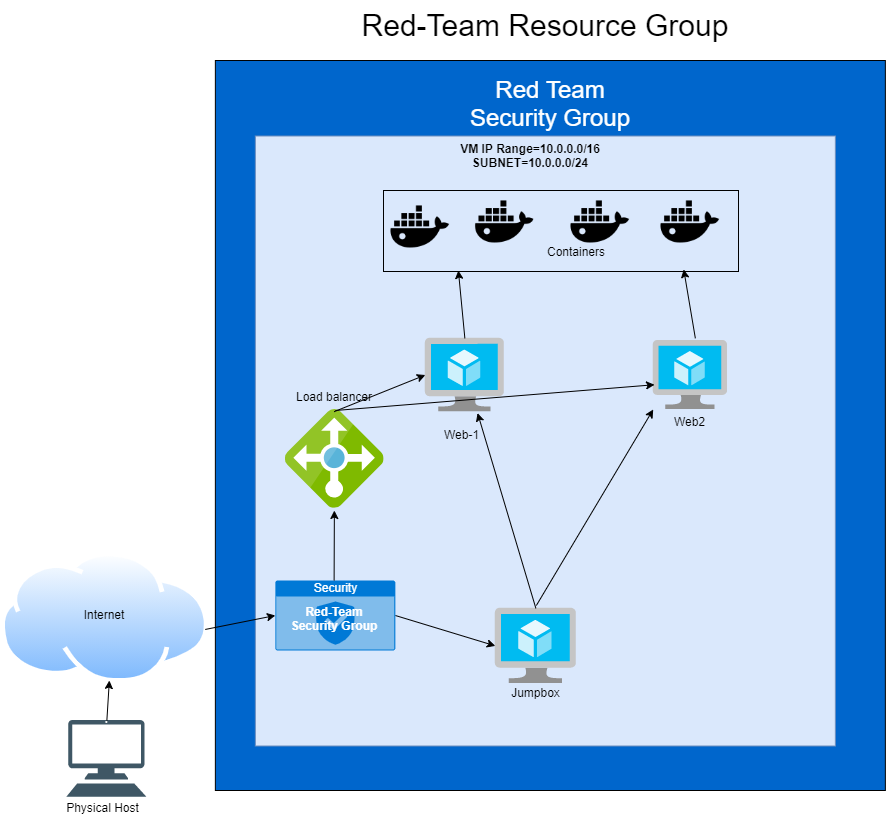
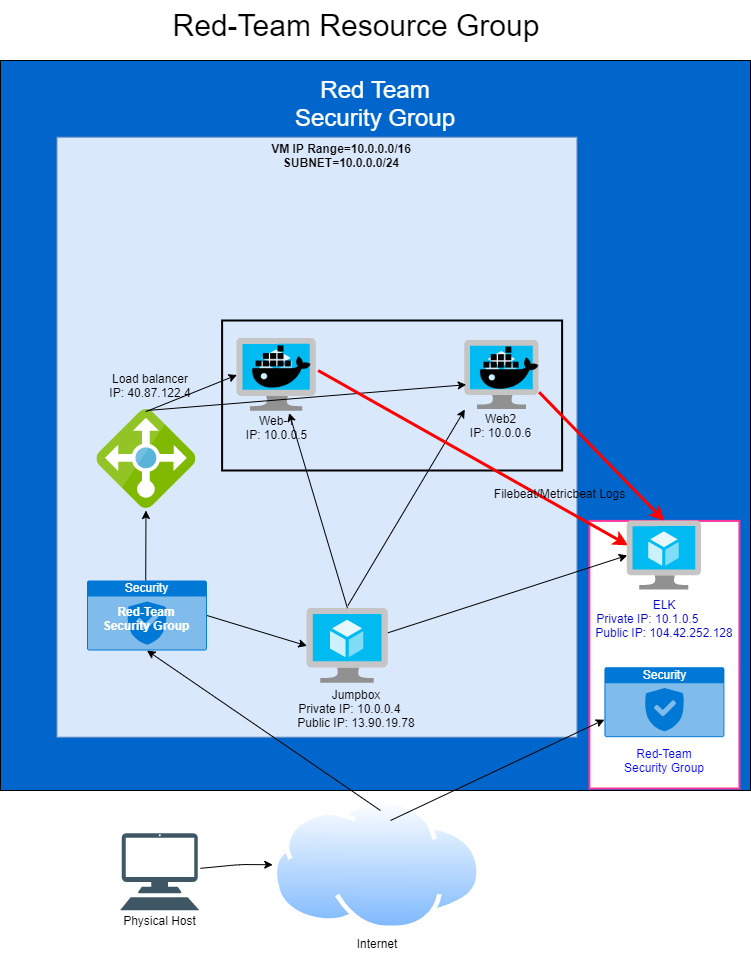
elk

diff --git a/README.md b/README.md
@@ -2,16 +2,15 @@
 
 The files in this repository were used to configure the network depicted below.
 
-![TODO: Update the path with the name of your diagram](C:\Users\debra\Documents\ELK-Stack-Project\images\RedTeam-Network.png)
+![diagram](images\RedTeam-Network.png)
 
 These files have been tested and used to generate a live ELK deployment on Azure. They can be used to either recreate the entire deployment pictured above. Alternatively, select portions of the yaml file may be used to install only certain pieces of it, such as Filebeat.
 
-  - _TODO: Enter the playbook file._
-  (C:\Users\debra\OneDrive\Documents\ELK-Stack-Project\scripts\elk-playbook.yml)
-  (C:\Users\debra\OneDrive\Documents\ELK-Stack-Project\scripts\filebeat-playbook.yml)
-  (C:\Users\debra\OneDrive\Documents\ELK-Stack-Project\scripts\filebeat-config.yml)
-  (C:\Users\debra\OneDrive\Documents\ELK-Stack-Project\scripts\metricbeat-playbook.yml)
-  (C:\Users\debra\OneDrive\Documents\ELK-Stack-Project\scripts\metricbeat-config.yml)
+  [](scripts\elk-playbook.yml)
+  [](scripts\filebeat-playbook.yml)
+  [](scripts\filebeat-config.yml)
+  [](scripts\metricbeat-playbook.yml)
+  [](scripts\metricbeat-config.yml)
   
 This document contains the following details:
 - Description of the Topology
@@ -26,53 +25,87 @@ This document contains the following details:
 
 The main purpose of this network is to expose a load-balanced and monitored instance of DVWA, the D*mn Vulnerable Web Application.
 
-Load balancing ensures that the application will be highly available, in addition to restricting the public to the network.
-- _TODO: What aspect of security do load balancers protect? What is the advantage of a jump box?_ updates only need to be put on that single system and be deployed to the VMs it connects to.
+Load balancing ensures that the application will be highly 
 
-Integrating an ELK server allows users to easily monitor the vulnerable VMs for changes to the _____ and system _____.
-- _TODO: What does Filebeat watch for?_files and data
-- _TODO: What does Metricbeat record?_system metrics
+        available, 
+in addition to restricting 
+
+        the public traffic
+to the network.
+
+What aspect of security do load balancers protect? 
+ 
+        defends an organization against distributed denial-of-service (DDoS) attacks.
+ 
+ 
+What is the advantage of a jump box?_ 
+ 
+        updates only need to be put on that single system and be deployed to the VMs it connects to.
+
+Integrating an ELK server allows users to easily monitor the vulnerable VMs for changes to the 
+
+        files 
+and 
+        
+        system metrics.
+What does Filebeat watch for?
+
+        files and data
+What does Metricbeat record?
+
+        system metrics
 
 The configuration details of each machine may be found below.
 _Note: Use the [Markdown Table Generator](http://www.tablesgenerator.com/markdown_tables) to add/remove values from the table_.
 
 | Name     | Function | IP Address | Operating System |
 |----------|----------|------------|------------------|
-| Jump Box | Gateway  | 10.0.0.1   | Linux            |
+| Jump Box | Gateway  | 10.0.0.1, 13.90.19.78   | Linux            |
 | Web-1    |    VM    | 10.0.0.5   | Linux            |
 | Web-2    |    VM    | 10.0.0.6   | Linux            |
-| ELK      |    ELK   | 10.1.0.5   | Linux            |
+| ELK      |    ELK   | 10.1.0.5, 104.42.252.128   | Linux            |
 
 ### Access Policies
 
 The machines on the internal network are not exposed to the public Internet. 
 
 Only the Gateway machine can accept connections from the Internet. Access to this machine is only allowed from the following IP addresses:
-- _TODO: 40.87.122.4 10.0.0.5 10.0.0.6
+
+        40.87.122.4; 10.0.0.5; 10.0.0.6
 
 Machines within the network can only be accessed by the load balancer.
-- _TODO: Which machine did you allow to access your ELK VM? What was its IP address?_
+Which machine did you allow to access your ELK VM?
+ 
+        Jumpbox 
+What was its IP address?
+
+        13.90.19.78
 
 A summary of the access policies in place can be found in the table below.
 
-| Name     | Publicly Accessible | Allowed IP Addresses |
-|----------|---------------------|----------------------|
-| Jump Box | Yes                 | 10.0.0.1 10.0.0.2    |
-|          |                     |                      |
-|          |                     |                      |
-
+| Name     | Publicly Accessible | Allowed IP Addresses  |
+|----------|---------------------|---------------------- |
+| JumpBox  |  Yes                |10.0.0.0/16-10.1.0.0/16|
+| ELK      |  No                 |10.1.0.5               |
+| Web-1    |  No                 |10.0.0.0/16-10.1.0.0/16|
+| Web-2    |  No                 |10.0.0.0/16-10.1.0.0/16|
 ### Elk Configuration
 
-Ansible was used to automate configuration of the ELK machine. No configuration was performed manually, which is advantageous because...
-- _TODO: What is the main advantage of automating configuration with Ansible? you only have to do it once
+
+- TODO: Ansible was used to automate configuration of the ELK machine. No configuration was performed manually, which is advantageous because...
+
+What is the main advantage of automating configuration with Ansible? 
+
+        you only have to do it once
 
 The playbook implements the following tasks:
 - _TODO: In 3-5 bullets, explain the steps of the ELK installation play. E.g., install Docker; download image; etc._
-- . install docker.io
-- . install pip3
-- . increase memory
-- . download and launch container
-- . restart docker on reboot
+ 
+        install docker.io
+        install pip3
+        increase memory
+        download and launch container
+        restart docker on reboot
 
 The following screenshot displays the result of running `docker ps` after successfully configuring the ELK instance.
 
@@ -80,11 +113,15 @@ The following screenshot displays the result of running `docker ps` after succes
 
 ### Target Machines & Beats
 This ELK server is configured to monitor the following machines:
-- _TODO: List the IP addresses of the machines you are monitoring_
+List the IP addresses of the machines you are monitoring_
 
+        Web-1 10.0.0.5  
+        Web-2 10.0.0.6
 We have installed the following Beats on these machines:
-- _TODO: Specify which Beats you successfully installed_
- filebeats and metricbeats
+
+Specify which Beats you successfully installed_
+ 
+        filebeats and metricbeats
 
 These Beats allow us to collect the following information from each machine:
 - _TODO: In 1-2 sentences, explain what kind of data each beat collects, and provide 1 example of what you expect to see. E.g., `Winlogbeat` collects Windows logs, which we use to track user logon events, etc._
@@ -93,16 +130,44 @@ These Beats allow us to collect the following information from each machine:
 In order to use the playbook, you will need to have an Ansible control node already configured. Assuming you have such a control node provisioned: 
 
 SSH into the control node and follow the steps below:
-- Copy the config file to /etc/ansible/file.
-- Update the config file to include the ELK server's private IP address 10.1.0.5
-- Run the playbook, and navigate to Kibana to check that the installation worked as expected.
+- Copy the 
+
+        - config file 
+  to 
+
+        /etc/ansible/file.
+
+- Update the 
+ 
+        - config 
+  file to include 
+
+        the ELK server's private IP address 10.1.0.5
+- Run the playbook, and navigate to 
+        
+        Kibana 
+  to check that the installation worked as expected.
 
 _TODO: Answer the following questions to fill in the blanks:_
-- _Which file is the playbook? *-playbook.yml Where do you copy it? /etc/ansible
-- _Which file do you update to make Ansible run the playbook on a specific machine? *-config.yml How do I specify which machine to install the ELK server on versus which to install Filebeat on?_ by typing in the IP address of the server you want to install on
-- _Which URL do you navigate to in order to check that the ELK server is running? http:\\104.42.252.128:5601
+- _Which file is the playbook? 
+- 
+        - *-playbook.yml 
+Where do you copy it? 
+
+        /etc/ansible
+- _Which file do you update to make Ansible run the playbook on a specific machine? 
+- 
+        - *-config.yml 
+  How do I specify which machine to install the ELK server on versus which to install Filebeat on?_ 
+
+        by typing in the IP address of the server you want to install on
+- _Which URL do you navigate to in order to check that the ELK server is running? 
+- 
+        - http:\\104.42.252.128:5601
 
 _As a **Bonus**, provide the specific commands the user will need to run to download the playbook, update the files, etc._ 
-cd /etc/ansible/ 
-nano playbook.yml 
-ansible-playbook playbook.yml
+
+        cd /etc/ansible/ 
+        nano playbook.yml 
+        ansible-playbook playbook.yml
+        http:\\104.42.252.128:5601
